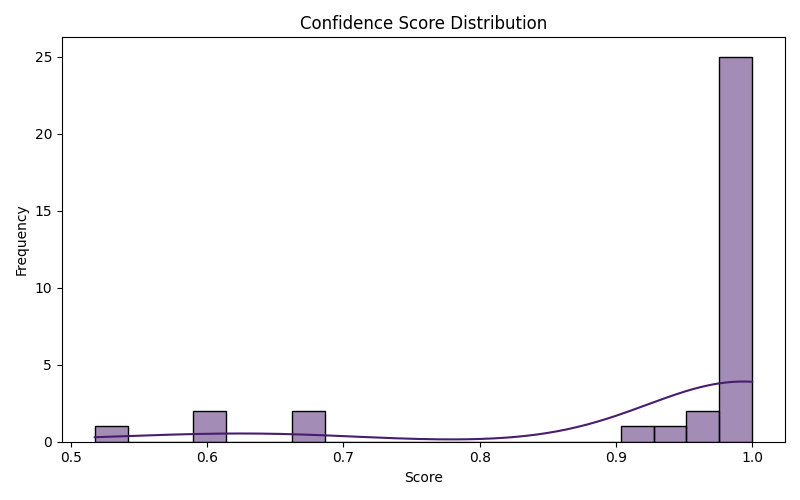
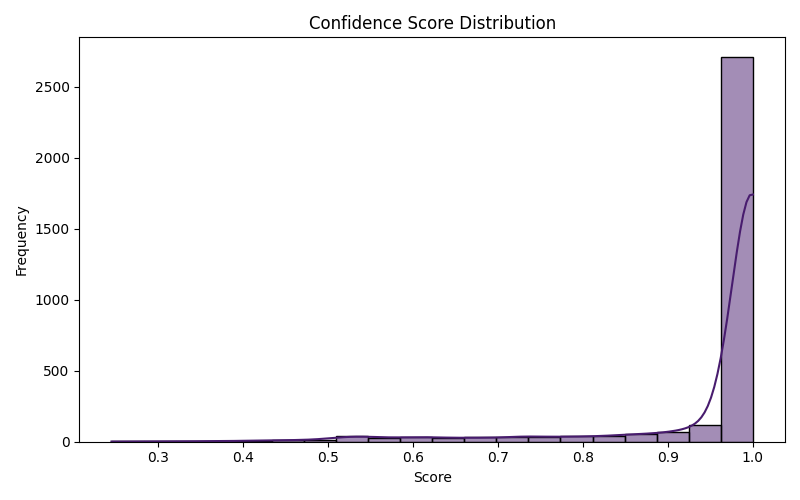
May 8, 2025, 3:18 PM

diff --git a/reports/PI_detection_report.md b/reports/PI_detection_report.md
@@ -1,18 +1,18 @@
 # PI Detection Report
-**Generated:** 2025-05-08 13:12:19
+**Generated:** 2025-05-08 15:17:52
 
 ## Summary Statistics
-- Total Detections: 34
-- Unique PI Types: 10
-- Average Confidence: 0.9358
+- Total Detections: 3310
+- Unique PI Types: 15
+- Average Confidence: 0.9551
 - Median Confidence: 1.0000
 - Fields with PI: 6
-- Rows with PI: 9
+- Rows with PI: 968
 
 ## Confidence Distribution
-- High Confidence (> 0.9): 85.3%
-- Medium Confidence (0.7 - 0.9): 0.0%
-- Low Confidence (<= 0.7): 14.7%
+- High Confidence (> 0.9): 87.1%
+- Medium Confidence (0.7 - 0.9): 6.7%
+- Low Confidence (<= 0.7): 6.2%
 
 ### Confidence Score Distribution Chart
 ![Confidence Score Distribution](../charts/confidence_distribution.png)
@@ -23,13 +23,18 @@
 ## Average Confidence by PI Type
 | PI Type | Avg Confidence | Count |
 |----------|----------------|-------|
-| IP_ADDRESS | 0.8353 | 7 |
-| PHONE | 0.8380 | 2 |
-| CREDIT_DEBIT_NUMBER | 1.0000 | 1 |
-| EMAIL | 0.5175 | 1 |
-| URL | 0.9836 | 5 |
-| MAC_ADDRESS | 0.9762 | 6 |
-| ADDRESS | 1.0000 | 1 |
-| NAME | 1.0000 | 4 |
-| DATE_TIME | 1.0000 | 6 |
-| SSN | 1.0000 | 1 |
+| IP_ADDRESS | 0.9342 | 417 |
+| PHONE | 0.8959 | 274 |
+| CREDIT_DEBIT_NUMBER | 0.9907 | 119 |
+| EMAIL | 0.9957 | 231 |
+| URL | 0.9649 | 375 |
+| MAC_ADDRESS | 0.8937 | 618 |
+| ADDRESS | 0.9930 | 228 |
+| NAME | 0.9937 | 360 |
+| DATE_TIME | 0.9969 | 514 |
+| SSN | 1.0000 | 159 |
+| BANK_ACCOUNT_NUMBER | 0.6145 | 3 |
+| INTERNATIONAL_BANK_ACCOUNT_NUMBER | 0.6412 | 3 |
+| PASSPORT_NUMBER | 0.6073 | 5 |
+| DRIVER_ID | 0.4821 | 3 |
+| PIN | 0.5142 | 1 |
